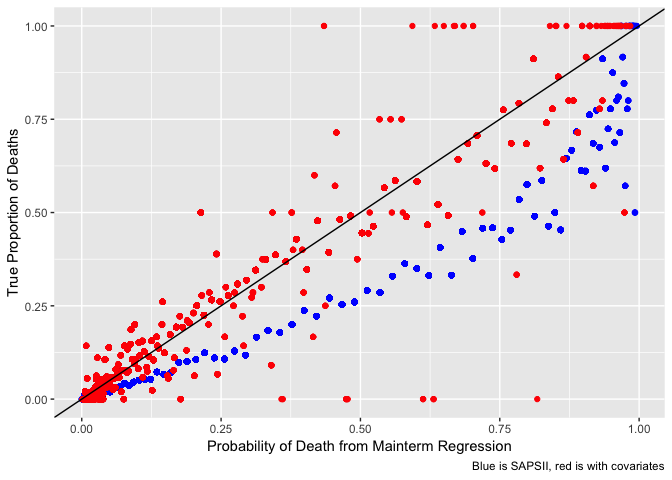
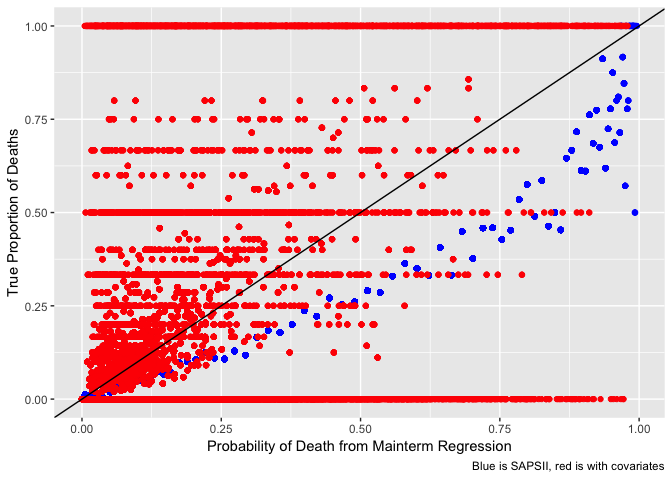
report

diff --git a/report.md b/report.md
@@ -26,7 +26,9 @@ The next step was to follow the MIMIC website's open tutorial to install MIMIC i
 
 From this database query, we were able to gain a clean table of demographic data for all patients who were in the ICU. Using the query, we performed exploratory analysis on the Admissions data from MIMIC. This gave us patient admit time and discharge time, along with several other demographic variables. However we wanted to dig deeper into the relationship between length of total stay in the hospital, length of stay in the ICU, and proportion of mortalities to try to predict the probability of death. This led us to focus a portion of our analysis on patient severity scores. These scores represent aggregate indices of a patient's condition when they arrive at the ICU. Ultimately we found that the SAPS-II severity score performs best. Using the SAPS-II scores, we ran a regression to obtain the probability of patient mortality. This data collection process allowed us to perform a comprehensive analysis on the MIMIC data.
 
-**@LAURA -- Here, let's describe the process of simplifying diagnoses**
+We also used AHRQ's ICD code classification system to generate high-level classification of diagnosis for later manipulation in our interactive [Shiny webapp](https://mimicroc.shinyapps.io/severity-scores-analysis). The R code contained in diagnostic\_cat.Rmd in our project fo makes use of the Clinical Classification Software (CCS), which categorizes ICD-9 coded diagnoses into clinically meaningful groups. The categorization was developed by the Agency for Healthcare Research and Quality (AHRQ). More detail can be found on the AHRQ website: <https://www.hcup-us.ahrq.gov/tools_software.jsp>. This software contains two tables: `ccs_single_level_dx.csv.gz` and `ccs_multi_level_dx.csv.gz`. The first table contains high-level diagnostic category infomation, while the multi-level diagnostic category information contains four levels of diagnostic detail.
+
+The purpose of reading in AHRQ's clinical categories is to help make diagnosis descriptions for our data more intuitive.
 
 Initial Questions
 -----------------
@@ -121,17 +123,17 @@ We will make use of the local Postgres database and the publicly-accessible [htt
 
 We need to generate some views into the database before the query to generate the severity scores:
 
--   1.  uofirstday - generated by urine-output-first-day.sql. This draws from the "outputevents" table measured from CareVue, an ICU vitals monitoring device, to obtain
+-   1.  uofirstday - generated by urine-output-first-day.sql. This draws from the "outputevents" table measured from CareVue, an ICU vitals monitoring device, to obtain total urine output for the first day in the ICU.
 
--   1.  ventdurations - generated by ventilation-durations.sql
+-   1.  ventdurations - generated by ventilation-durations.sql. This is the total time a patient spends on airway ventilation.
 
--   1.  vitalsfirstday - generated by vitals-first-day.sql
+-   1.  vitalsfirstday - generated by vitals-first-day.sql. This contains queries for a number of summary vitals scores, including heart rate, blood pressure, respiration rate, and temperature.
 
--   1.  gcsfirstday - generated by gcs-first-day.sql
+-   1.  gcsfirstday - generated by gcs-first-day.sql. This is a measure of a patient's verbal, motor, and eye opening response.
 
--   1.  labsfirstday - generated by labs-first-day.sql
+-   1.  labsfirstday - generated by labs-first-day.sql. This creates a number of scores related to (blood) lab tests taken in the first day, including creatinine levels, white blood cell count, and platelet count.
 
--   1.  bloodgasarterialfirstday - generated by blood-gas-first-day-arterial.sql
+-   1.  bloodgasarterialfirstday - generated by blood-gas-first-day-arterial.sql. This is a query that computes a common Arterial Blood Gas test from device (Carevue) monitoring records. This measures oxygen and carbon dioxide levels in blood and serves as an indicator of health.
 
 ``` r
 urine_view <- read_file("./database/mimic-code/concepts/firstday/urine-output-first-day.sql")
@@ -169,7 +171,7 @@ sapsii_data %>%
 
     ## `stat_bin()` using `bins = 30`. Pick better value with `binwidth`.
 
-![](report_files/figure-markdown_github/unnamed-chunk-11-1.png)
+![](report_files/figure-markdown_github/unnamed-chunk-12-1.png)
 
 A note in the SQL file is the following:
 
@@ -248,7 +250,7 @@ admissions %>%
   theme_bw()
 ```
 
-![](report_files/figure-markdown_github/unnamed-chunk-12-1.png)
+![](report_files/figure-markdown_github/unnamed-chunk-13-1.png)
 
 ### Other severity scores
 
@@ -411,7 +413,7 @@ predictor_detail_data %>%
   theme_bw()
 ```
 
-![](report_files/figure-markdown_github/unnamed-chunk-16-1.png)
+![](report_files/figure-markdown_github/unnamed-chunk-17-1.png)
 
 Although the authors of the SAPS score publish a non-linear in parameters regression for association with likelihood of death, I'll fit a main-term logistic regression to obtain mortality prediction based on a linear-in-parameters assumption.
 
@@ -465,7 +467,7 @@ predictor_detail_data %>%
   theme_bw()
 ```
 
-![](report_files/figure-markdown_github/unnamed-chunk-18-1.png)
+![](report_files/figure-markdown_github/unnamed-chunk-19-1.png)
 
 We see a better fit with the mainterm logistic regression, which makes sense given that the literature value was an externally-generated prediction, while our regression is internally-generated. Keep that caveat in mind as we continue with algorithm comparison for other scores, because no direct external value exists for predictive capability of the other severity scores; rather, they're used in practive as clinical decision support rather than giving probability determination.
 
@@ -520,7 +522,7 @@ predictor_detail_data %>%
   theme_bw()
 ```
 
-![](report_files/figure-markdown_github/unnamed-chunk-20-1.png)
+![](report_files/figure-markdown_github/unnamed-chunk-21-1.png)
 
 This regression obtains a good fit, which makes sense because the probability was obtained from our data rather than a literature value.
 
@@ -814,7 +816,7 @@ We can calculate AUROC for our new model and compare against SAPSII. Note that w
        caption = "Blue is SAPSII, red is with covariates")
 ```
 
-![](report_files/figure-markdown_github/unnamed-chunk-23-1.png)
+![](report_files/figure-markdown_github/unnamed-chunk-24-1.png)
 
 What a mess! This goes to show that something that looks promising from a model diagnostics perspective may, in fact, be more complex and far less predictive in terms of individual probability values.
 
@@ -892,7 +894,7 @@ lrtest(fit_null, fit_alt_2)
        caption = "Blue is SAPSII, red is with covariates")
 ```
 
-![](report_files/figure-markdown_github/unnamed-chunk-24-1.png)
+![](report_files/figure-markdown_github/unnamed-chunk-25-1.png)
 
 It looks like the algorithm with`admission_type` added as a covariate has far more variance on observed proportion of deaths for a given assigned probabiity of death.
 
@@ -986,7 +988,7 @@ tibble(FPR_sapsii = roc_log_sapsii[,1], TPR_sapsii = roc_log_sapsii[,2],
   scale_color_viridis_d()
 ```
 
-![](report_files/figure-markdown_github/unnamed-chunk-25-1.png)
+![](report_files/figure-markdown_github/unnamed-chunk-26-1.png)
 
 ``` r
 tibble(score = c("sapsii", "sapsii with insurance interaction"), AUROC = c(auc(roc_log_sapsii), auc(roc_log_full))) %>% 
@@ -1003,7 +1005,9 @@ The AUROC values for the two models are surprisingly close, something that is no
 Discussion
 ----------
 
-We were very ambitious and there were some limitations to using such an ambitious dataset. For example, ...
+In summary, we used the MIT LCP to generate severity scores and detailed ICU data for the &gt;50,000 patients in this dataset from their chart events in the ICU. We also used AHRQ's ICD code classification system to generate high-level classification of diagnosis for later manipulation in our interactive [Shiny webapp](https://mimicroc.shinyapps.io/severity-scores-analysis). We evaluated the different severity scores first through an intuitive visualization, and then through an AUROC analysis, making use of predictions imputed in the case of SAPSII by a published literature value and, for other scores, through a mainterm logicstic regression. An AUROC analysis maximizes the ratio of true positives to false positive through every possible "cutoff" value for a continuous-probability test; i.e., if an algorithem were to classify an outcome based on different levels of probability, the false positive rate and true positive rate would change. A algorithm with good discrimination will quickly maxi the true positive rate vs. false positive rate as your threshold for classification changes. We find this type of analysis applicable to the clinical use case; given that different clinicians, programs, or systems may assign different interpretations to the same severity, a useful algorithm will quickly be "better than chance" throughout its range. Our AUROC analysis resulted in SAPSII being the most predictive severity score.
+
+Following this, we revisited an earlier question of interest-- do demographic factors affect outcomes--through two means: first, we investigated whether adding additional terms to the model improved the SAPSII prediction, through our earlier "intuitive" graph and an AUROC analysis. We found a marginal improvement in AUROC when adding an interaction term with admission type (emergency or elective), and a log-likelihood test found the additional terms added to be significant. However, our main conclusion was how quickly models are muddied in interpretability by adding additional terms, which was a useful exploration of the principle of parsimony. To close our project, we found that a less certain, but more visualization-rich would be a useful addition to this research question, and we created a [Shiny dashboard](https://mimicroc.shinyapps.io/severity-scores-analysis) wherein users can explore the effect of different diagnoses (from the top 50 most common diagnostic categories), insurance types, and age on observed deaths and the ROC curves for the severity scores. (N.b.: this also serves as an exploration of how sample size affects evaluation of algorithms).
 
 Conclusion
 ----------
